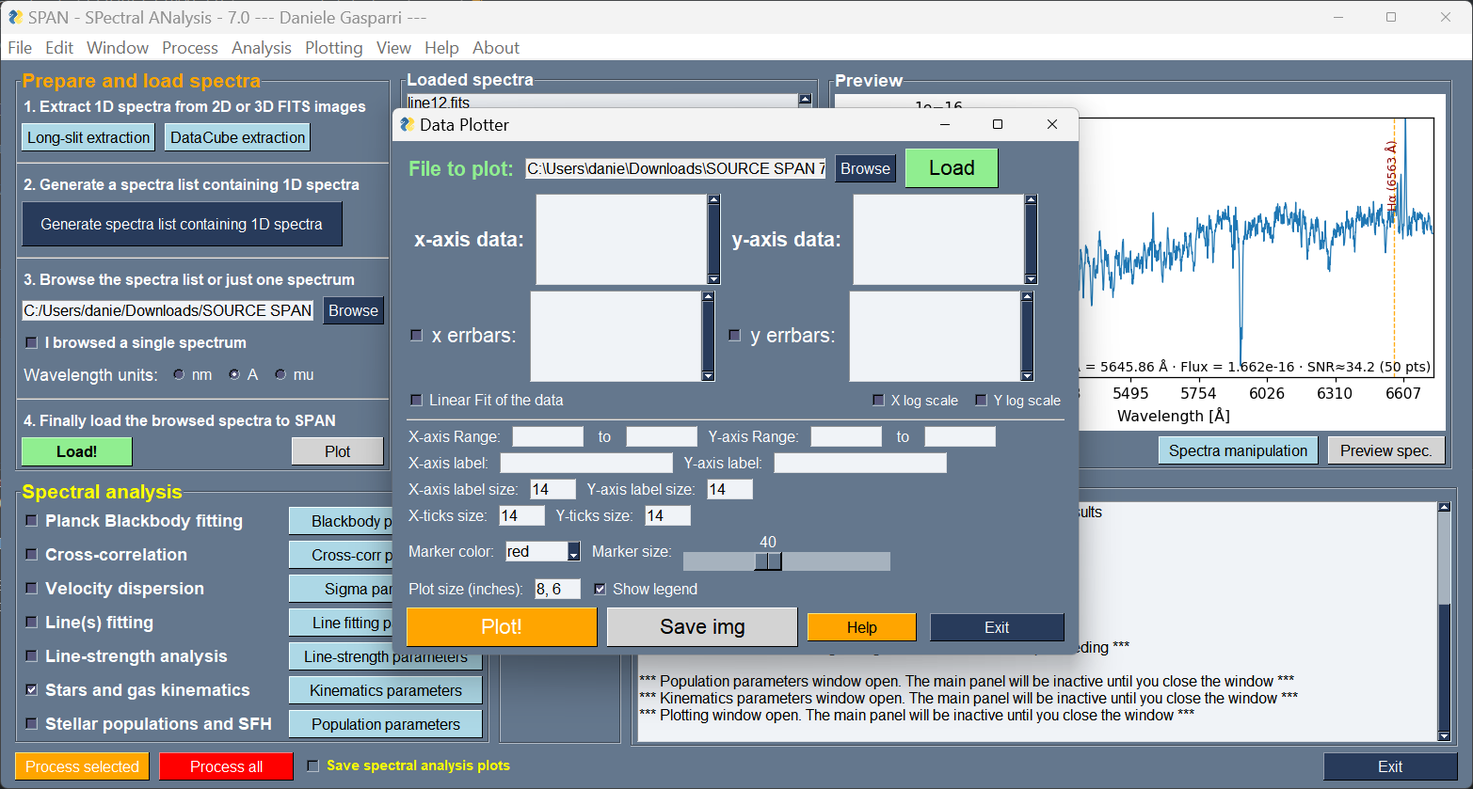
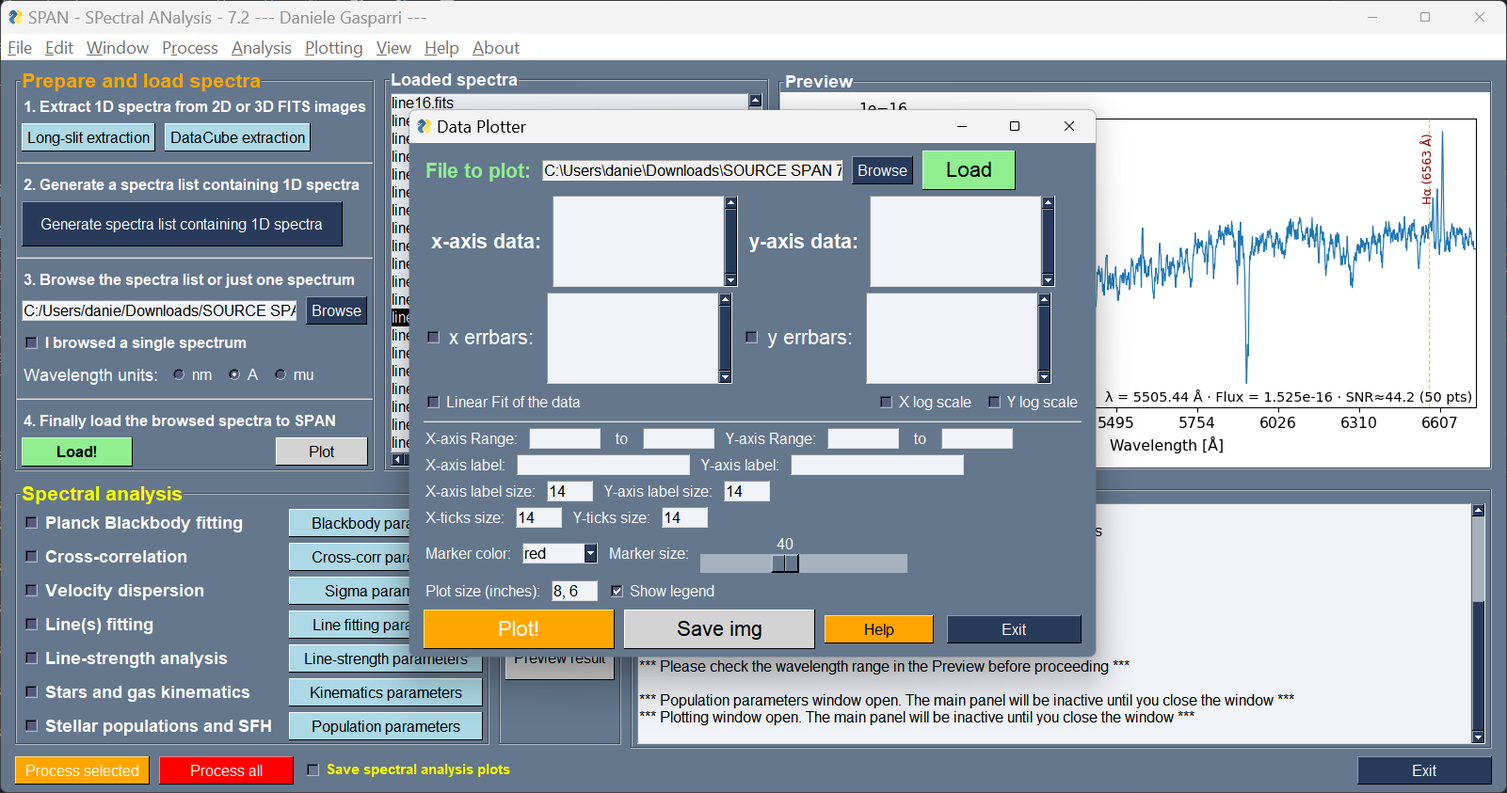
Add files via upload

diff --git a/docs/datacube_extraction.md b/docs/datacube_extraction.md
@@ -1,24 +1,22 @@
-SPAN: SPectral ANalysis software V7.1
-Daniele Gasparri, October 2025
+SPAN: SPectral ANalysis software V7.2
+Daniele Gasparri, November 2025
 
 # DataCube extraction #
 
 ![Datacube extraction](img/datacube_extraction.png)
 *Datacube extraction parameters*
 
-
-This module allows you to extract a series of n 1D spectra from a 3D FITS image (i.e., a datacube) following the GIST pipeline standard (Bittner et al., 2019, 2021).
-
-The required parameters are similar to those used in the GIST pipeline (and for any datacube extraction in general). The data product generated (i.e. spectra and bin table) are fully compatible with GIST.
-
+This sub-program allows you to extract a series of n 1D spectra from a 3D FITS image (i.e., a datacube) following the GIST pipeline standard (Bittner et al., 2019, 2021).
+The required parameters are similar to those used in the GIST pipeline (and for any datacube extraction in general). The data product generated (i.e. spectra and bin table) are fully compatible with both with SPAN and GIST. **IMPORTANT:** All the binning methods proposed in this task assume uncorrelated noise between the spaxels (no spaxel covariance). In real IFU data cubes, especially those reconstructed with drizzle algorithms (e.g., MUSE, JWST NIRSpec), the effective S/N per bin may be slightly overestimated (typically by 10–15%). Therefore, a practical approach to account for the covariance effect is to increase the target S/N accordingly (e.g., set the target S/N = 55 if an effective S/N ≈ 50 is desired).
 
 ## Overview
+
 The essential files and parameters required for this module to function correctly are highlighted in bold. The first step is to load a fully reduced, valid FITS datacube. Given the lack of a standardized convention for FITS keywords and data storage extensions, it is strongly recommended to use the "View datacube" button to verify that the datacube is correctly read.
 
 This module has been tested with MUSE, CALIFA, JWST NIRSpec IFU, and the new WEAVE LIFU data products. Other formats may only be partially supported. If at least the flux values are properly read, the "View datacube" button should display the image, though the wavelength slider in the Matplotlib window may show only a generic "Wavelength index" instead of actual wavelength values.
 
-
 ## Basic parameters for extraction
+
 Once the datacube is correctly loaded, configure the following basic parameters:
 
 - A run name (arbitrary).
@@ -26,29 +24,29 @@ Once the datacube is correctly loaded, configure the following basic parameters:
 - The wavelength range for extraction. **WARNING**: if de-redshift is needed (i.e. inserted redshift value different than 0), the wavelength range to extract is referred to the equivalent rest-frame range. Example: we have observations in the near-infrared from 9200 to 12500 A from a galaxy located at z = 1.17. If redshift value is set to zero (no de-redshift) we can insert this wavelength range (or a subrange) for extraction, but if we want to perform the de-redshift, we must insert the equivalent rest-frame wavelength range for extraction. In this case, it will be roughly 4200-5800 A. 
 - Selecting the extraction routine. In the middle panel, choose the routine for reading and extracting the data. Pre-loaded routines are available for MUSE, CALIFA, WEAVE LIFU, and JWST NIRSpec IFU datacubes. You can write your own extraction routines as .py files following the structure of the available ones and load using the option "using a user defined routine for extraction".
 - Configure the zero point for spatial coordinates. This is typically the center of the datacube spatial axes but can also be set to the spaxel coordinates of the galaxy's center. The "View datacube" option is useful for retrieving this information.
-- Wavelength range to consider for S/N estimation. If left empy, the S/N for the Voronoi rebinning will be estimated using the provided extraction wavelength range. Otherwise, enter the wavelength range where estimate the S/N. This field has effect only for Voronoi binning mode.
-
+- Wavelength range to consider for S/N estimation. If left empty, the S/N for the Voronoi rebinning will be estimated using the provided extraction wavelength range. Otherwise, enter the wavelength range where estimate the S/N. This field has effect only for Voronoi binning mode.
 
 ## Applying a spatial mask
+
 Locate the required "Select a FITS mask" field to browse and load a valid mask FITS file. This mask must have the same spatial dimensions as the datacube. If mask is not needed, simply leave this field empty.
 If no mask is available but you need it, generate one by clicking "Generate mask". A Matplotlib window will open, displaying the datacube with a slider to navigate across wavelength indices (note: these are indices, not actual wavelengths!). 
 To mask specific spaxels (e.g., to exclude contaminated regions and/or bad spaxels), Ctrl+left-click to mask and Ctrl+right-click to unmask. You can also mask/unmask larger areas by clicking and dragging with the Ctrl+left or right mouse button. On touchscreen devices (i.e. Android), masking is performed by tapping and dragging. Unmasking is not yet available. Ensure you remain within the plot boundaries while dragging, or the selection may not be applied.
 Once satisfied, close the Matplotlib window. The mask will be automatically saved and loaded in the relative field.
-If you open the "Generate mask" window but no masking is needed, simply close the window. An blank mask file will be created but it will not have effect on your data.
+If you open the "Generate mask" window but no masking is needed, simply close the window. An empty mask file will be created but it will not have effect on your data.
 Optionally, you can also mask spaxels with low S/N values by specifying a threshold.
 **Important**: bad and/or invalid spaxels are automatically masked out by SPAN. 
-
 
 ## Binning
 
 Binning spaxels together to extract spectra with higher signal is a very common practice when dealing with datacubes. SPAN offers three options for binning:
 
-1. **Voronoi binning:** The standard for datacube data. This option bins contiguous spaxels using the Voronoi method (Cappellari et al., 2003) to achieve the desired S/N; 
-2. **Elliptical radial binning:** Creates concentric annuli around the selected center with a minimum thickness of dR (in arcsec) and a minimum S/N threshold. The center, orientation and eccentricity of the ellipses can be set manually. In this case, the center is taken as the zero point for spatial coordinates given above ("Origin (in pixel) of the coordinates"), while the position angle (PA, assuming standard astronomical orientation of the cube, i.e. north up, east left) and the eccentricity (q = b/a) are inserted here. If automatic placing is selected ("Auto center"), SPAN will find the photometric center for you from the 2D collapsed image automatically generated and will center the ellipses around this point. If automatic geometry is selected ("Auto ellipses") SPAN will fit the ellipses following the photometric profiles of the 2D collapsed image and will find the best values of PA and q for you. If you have reliable data at hand, please use the manual method, at least for the estimation of the photometric center (the option "View datacube" may be very useful). The coordinates of the generated bins written in the _table.fits (XBIN, YBIN) will be the coordinates of the elliptical bins on the major axis corresponding to the elliptical radius R_flux. If the center of your coordinate system corresponds to the photometric center of the ellipses, these coordinates just give you the distance between the center and the corresponding bin point (signal weighted mean) on the major axis. If the origin of your coordinate system is different than the center of the ellipses, then you must account for the offset to treat XBIN and YBIN as distances. **TIP:** Enable the "Plot radial profile" option in the plot maps sub-program if you want to plot directly the radial profiles of your elliptical binned and analyzed spectra.
-3. **Manual binning:** Defines manual bins with mouse multiple selection. The manual bin selection lets you to have the full control on the spaxels to bin. By clicking to the "Manual binning" button, an iterative Matplotlib will appear showing your DataCube. You can select any region to be binned by Ctrl+left-click or dragging on the image. Deselecting can be performed by Ctrl+right-click or dragging. On touchscreen devices (i.e. Android), manual binning regions are selected by tapping and dragging. Deselecting is not yet available. Any region fully separated by the others by at least one spaxel, is considered by SPAN as a single bin. You can draw as many regions as you want. Once done, close the matplotlib window and the binning info will be saved.
-4. **Use pre-existing bin info:** This is useful, for example, if you have a datacube split between blue and red arm (e.g. WEAVE LIFU) and you want to sample exactly the same regions, either with the Voronoi or manual binning. You just need to select the folder where the bin info and masking files are stored from the previous run that you want to take as reference for the binning info. SPAN will find the required files in the folder, copy them to the folder where you are saving the new extracted spectra and rename them according to the folder name. Therefore, the extraction routine will use these bin and mask info instead of generating new ones.
+1. **Voronoi binning:** The standard for datacube data. This option bins contiguous spaxels using the Voronoi method (Cappellari et al., 2003) to achieve the desired S/N.
+2. **PoverBin binning:** Developed and presented by Cappellari 2025, is modern the evolution of the historical Voronoi binning. PowerBin produces spectral bins similar to Voronoi but it is up to 10 times faster.
+3. **Elliptical radial binning:** Creates concentric annuli around the selected center with a minimum thickness of dR (in arcsec) and a minimum S/N threshold. The center, orientation and eccentricity of the ellipses can be set manually. In this case, the center is taken as the zero point for spatial coordinates given above ("Origin (in pixel) of the coordinates"), while the position angle (PA, assuming standard astronomical orientation of the cube, i.e. north up, east left) and the eccentricity (q = b/a) are inserted here. If automatic placing is selected ("Auto center"), SPAN will find the photometric center for you from the 2D collapsed image automatically generated and will center the ellipses around this point. If automatic geometry is selected ("Auto ellipses") SPAN will fit the ellipses following the photometric profiles of the 2D collapsed image and will find the best values of PA and q for you. If you have reliable data at hand, please use the manual method, at least for the estimation of the photometric center (the option "View datacube" may be very useful). The coordinates of the generated bins written in the _table.fits (XBIN, YBIN) will be the coordinates of the elliptical bins on the major axis corresponding to the elliptical radius R_flux. If the center of your coordinate system corresponds to the photometric center of the ellipses, these coordinates just give you the distance between the center and the corresponding bin point (signal weighted mean) on the major axis. If the origin of your coordinate system is different than the center of the ellipses, then you must account for the offset to treat XBIN and YBIN as distances. **TIP:** Enable the "Plot radial profile" option in the plot maps sub-program if you want to plot directly the radial profiles of your elliptical binned and analyzed spectra.
+4. **Manual binning:** Defines manual bins with mouse multiple selection. The manual bin selection lets you to have the full control on the spaxels to bin. By clicking to the "Perform manual binning" button, an iterative Matplotlib will appear showing your DataCube. You can select any region to be binned by Ctrl+left-click or dragging on the image. Deselecting can be performed by Ctrl+right-click or dragging. On touchscreen devices (i.e. Android), manual binning regions are selected by tapping and dragging. Deselecting is not yet available. Any region fully separated by the others by at least one spaxel, is considered by SPAN as a single bin. You can draw as many regions as you want. Once done, close the matplotlib window and the binning info will be saved.
+5. **Use pre-existing bin info:** This is useful, for example, if you have a datacube split between blue and red arm (e.g. WEAVE LIFU) and you want to sample exactly the same regions, either with the Voronoi or manual binning. You just need to select the folder where the bin info and masking files are stored from the previous run that you want to take as reference for the binning info. SPAN will find the required files in the folder, copy them to the folder where you are saving the new extracted spectra and rename them according to the folder name. Therefore, the extraction routine will use these bin and mask info instead of generating new ones.
 
-You can always preview the results by clicking on the "Preview bins" button. If Voronoi binning is activated, you will see the Voronoi bins color coded by their S/N. If Manual binning is activated, you will see the regions you selected that will be binned. In this case you will see still the single spaxels inside these regions, color coded by their S/N.
+You can always preview the results by clicking on the "Preview bins" button. If Voronoi or Elliptical binning are activated, you will see the bins color coded by their S/N. If Manual binning is activated, you will see the regions you selected that will be binned. In this case you will see still the single spaxels inside these regions, color coded by their S/N.
 
 
 ## Starting the Extraction

diff --git a/docs/index.md b/docs/index.md
@@ -1,7 +1,7 @@
 # SPAN: Spectral Analysis Software
 
 📖 **Author:** Daniele Gasparri  
-📅 **Latest Release:** October 2025  
+📅 **Latest Release:** November 2025  
 
 ![PyPI Version](https://img.shields.io/pypi/v/span-gui)
 ![Python Version](https://img.shields.io/badge/python-3.10%2B-blue)
@@ -11,11 +11,14 @@
 **SPAN is a cross-platform Python GUI software for the extraction, manipulation, and advanced analysis of 1D astronomical spectra in the optical and near-infrared (NIR) ranges, optimized for galaxy studies.**
 
 
-## What’s New in SPAN 7.1
+## What’s New in SPAN 7.2
 
-- Expanded and improved the two component fit of the "Stellar and gas kinematics" task, which is now available both for the stellar and gas kinematics, with four presets: old-young components, metal rich-metal poor components, all templates, and two templates mode, with custom selection of age and metallicity following the work of Rubino et al. 2021. 
-- Added interactive analysis modes to the Preview. You can press the key F, E, S, D, I, L, P to enter the Fitting mode, Equivalent width mode, Signal-to-noise mode, Differential wavelength and velocity mode, Integrated line flux mode, Line-peak finding, snaPshot. Draw a region for the F, E, S, I modes or click on two points in the D mode to see the results in the HUD, in the terminal window and to automatically save them in logging files in the "SPAN_results" folder. Press again the respective key to exit the selected analysis mode and return back to idle (not applicable to L and P modes, they exit automatically). Press C to cancel all the overlays. Double click resets also zoom and panning.
-- Minor bug fixes
+- Simplified, cleaned and better arranged the GUI layout
+- Improved memory and event handling in the Preview frame. Now the Preview does not slow down the GUI anymore after many spectra are scrolled in the listbox  
+- Fixed a bug and improved the visualization of the L mode (line finding) in the Preview. Now the lines found are shifted together with the spectrum, if redshift mode is used, and their wavelengths are updated in real time.
+- Implemented the new PowerBin algorithm of Cappellari 2025 for DataCube extraction, improving the speed by a factor of 10 with respect to the classical Voronoi tessellation. 
+- Implemented the option to save the maps generated by the "Plot maps" sub-program also in FITS format. 
+- Minor bug corrections
 
 More from the version 7.X:
 
@@ -24,13 +27,14 @@ More from the version 7.X:
   - Know in real-time wavelength, flux, and S/N on every point of the spectrum.
   - Look at rest-frame reference spectral features (OII, HBeta, OIII, HAlpha, CaT) for immediate comparison with your spectrum.
   - Manual Redshift Estimation: shift the selected spectrum with right-click and drag to match the spectral features of your spectrum with the reference lines. Reset the shift with double right-click.
+  - Perform on the fly analysis. You can press the key F, E, S, D, I, L, P to enter the Fitting mode, Equivalent width mode, Signal-to-noise mode, Differential wavelength and velocity mode, Integrated line flux mode, Line-peak finding, snaPshot. Draw a region for the F, E, S, I modes or click on two points in the D mode to see the results in the HUD, in the terminal window and to automatically save them in logging files in the "SPAN_results" folder. Press again the respective key to exit the selected analysis mode and return back to idle (not applicable to L and P modes, they exit automatically). Press C to cancel all the overlays. Double click resets also zoom and panning.
 - Consistent Zooming (View menu): unified scaling for fonts, widgets, frames, and Preview to fine-tuning the view on screens with different resolution.
 - Extended the preliminary check of the loaded spectra with a quick global S/N evaluation and flagging in the listbox (LOW SNR if S/N <= 5), so you can immediately identify problematic spectra.
 - Interactive listbox that allows you to:
   - Select multiple spectra with mouse dragging or with crtl or shift + click
   - The single spectrum or the selected spectra can be reordered or deleted, via right click menu (delete works also with "Canc" button).
   - You can undo the latest operation (i.e. if you accidentally deleted the wrong spectra).
-  - If two spectra are selected in the listbox, you can also compare them, via right click --> compare.
+  - If two spectra are selected in the listbox, you can also compare them, via right click --> compare spectra.
   - You can save the modified spectra list in "Edit --> save current spectra list...".
   - Double click on a single spectrum to open an info window with some basic data: name, wavelength range, sampling, mean/median flux, standard deviation and global S/N.
 - Markov chain Monte Carlo (MCMC) simulations mode available for stellar parameters estimated with Lick/IDS line-strength analysis, in addition to the griddata linear interpolation and the supervised machine-learning GPR.

diff --git a/docs/known_issues.md b/docs/known_issues.md
@@ -1,12 +1,18 @@
-SPAN: SPectral ANalysis Software V7.1
-Daniele Gasparri, October 2025
+SPAN: SPectral ANalysis Software V7.2
+Daniele Gasparri, November 2025
 
 # Known issues
 
-SPAN’s features work on all supported operating systems. However, some GUI quirks can appear depending on how Tkinter, the display server (Wayland/X11), and OS scaling interact. The following are minor visual issues currently known that I was not able to solve.
+SPAN tasks work on all supported operating systems. However, some GUI quirks can appear depending on how Tkinter, the display server (Wayland/X11), and OS scaling interact. The following are minor visual issues currently known that I was not able to solve.
 
-- **Reset zoom on Windows:** After zooming in/out, if you open and close one or more sub-windows and then choose View → Reset Zoom, the main panel may not fully return to its initial geometry. **Workaround:** Set your preferred zoom level at the start of a session and keep it unchanged.
+- **Reset zoom on Windows:** After zooming in or out, the reset zoom (View → Reset Zoom) might not reset to the default zoom level all the sub-windows. 
 
-- **Screen scaling on Linux:** On some Linux distributions (especially Ubuntu on Wayland), when desktop scaling > 100% the main GUI elements can lose perfect alignment. This is cosmetic only; functionality is unaffected. The behavior stems from how Tk handles HiDPI/fractional scaling on certain Linux setups. **Workaround:** work always with the screen scaling set to 100% (this is a general advice, since some Linux distributions do not work well with fractional scaling). If the GUI panel appears small, use the zooming option of SPAN: View → zoom in. If you find a reliable fix for your environment (e.g., specific Tk/OS settings), please let me know: I’m happy to test and incorporate improvements.
+- **Screen scaling on Linux:** On some Linux distributions (especially Ubuntu on Wayland), when desktop scaling > 100% the main GUI elements can lose their vertical alignment. This is cosmetic only: functionality is unaffected. The behavior stems from how Tk handles HiDPI/fractional scaling on certain Linux setups. **Workaround:** if you want a perfect symmetry in the main GUI, work with the screen scaling set to 100% (this is a general advice, since some Linux distributions do not work well with fractional scaling). If the GUI panel appears small, use the zooming option of SPAN: View → zoom in. If you find a reliable fix for your environment (e.g., specific Tk/OS settings), please let me know: I’m happy to test and incorporate improvements.
 
-- **Output window on macOS:** The embedded terminal window of SPAN on macOS systems has been disables since it slowed-down all the tasks by a factor 4-5. 
+- **Zooming on macOS:** Zooming functions on macOS systems do not resize the buttons and their text. I could not test extensively SPAN on macOS systems to fix this issue. **Workaround:** if possible, avoid the zooming. 
+
+- **Output window on macOS:** The embedded terminal window of SPAN on macOS systems has been disabled since it slowed-down all the tasks by a factor 4-5. 
+
+- **Other GUI aspect differences on... guess where... yes, macOS**: Depending on where you installed Python, from the official Python.org distribution or via Homebrew, something magical happens: the GUI appearance changes. More precisely, with the Homebrew build of Python, buttons, text, and listboxes appear oversized, while the preview shrinks as if by design. This is caused by differences in the bundled Tk version. For the best (and most consistent) appearance, install Python from the official Python.org distribution. 
+
+- **Real time protection in Windows:** Well, this is a known and general behavior of Windows systems that slows down anything. SPAN is no exception. As an example, when real time Windows protection is active, the initial loading and checking of the spectra are 3 times slower. If you work with large datasets, consider temporarily deactivating the real time protection. By doing this, the performances increase and will be comparable to Linux systems. 

diff --git a/docs/changelog.md b/docs/changelog.md
@@ -1,8 +1,29 @@
-SPAN: SPectral ANalysis software V7.1
-Daniele Gasparri, October 2025
+SPAN: SPectral ANalysis software V7.2
+Daniele Gasparri, November 2025
 
 
 ## Changelog
+
+**Version 7.2 (20251102):**  
+
+- Improved memory and event handling in the Preview frame. Now the Preview does not slow down the GUI anymore after many spectra are scrolled in the listbox.  
+- Fixed a bug and improved the visualization of the L mode (line finding) in the Preview. Now the lines found are shifted together with the spectrum, if redshift mode is used, and their wavelengths are updated in real time.
+- Simplified the GUI layout by eliminating three buttons: 'Header', 'Sampling' and 'Help me'. The header option has been added to the right click menu that appears when clicking on one spectrum in the listbox. Sampling is included in the info window that opens up when double clicking on one spectrum in the listbox. The 'Help me' button in the 'Spectral analysis' frame is now included in the user manual and not needed anymore in the GUI. 
+- Improved the Preview frame. The 'Spectra manipulation' and the relative 'Preview spec.' buttons are now located in the 'Actions' frame near the Spectral analysis frame. The Preview now fills its frame.
+- Fixed the reset zoom option for Windows systems that sometimes prevented the main GUI to return to its initial size. 
+- Corrected a bug for the Windows app in the line(s) fitting task, where the variable 'sigma' was in conflict with the same variable of the 'Velocity dispersion' task.
+- Now the SPAN Windows app maintains its icon in the windows Task Bar when SPAN is open.
+- Changed the location of the SpectralTemplates folder to be downloaded by SPAN (Python version) from my website to my GitHub. This improved the download speed a lot.
+- Updated FreeSimpleGUI for macOS compatibility: I had to modify the FreeSimpleGUI module to ensure full compatibility with macOS systems running Python installations from Homebrew. Recent Homebrew builds of Python (≥ 3.13) use Tcl/Tk 9, in which the traditional trace() method for monitoring Tk variables has been deprecated and removed without backward-compatibility, and without warning (as far as I know). This caused SPAN to fail during GUI initialization on these systems. The new implementation introduces a compatibility wrapper that automatically switches between the legacy trace() and the modern trace_add() API, depending on the underlying Tcl/Tk version. This change should guarantee SPAN working on all platforms.
+- Some user experience improvements for Windows: buttons are highlighted with mouse over and now all the sub-windows stays on top with respect to the main GUI until they are closed. macOS and Linux systems have different window handling and these improvements are not yet available for them.
+- New binning method for the 'Datacube extraction' sub-program, using the new PowerBin algorithm of Cappellari 2025, which is much faster than the Voronoi binning.
+- Option to save also in FITS files the maps generated by the 'Plot maps' sub-program.
+- Some other minor bug corrections:
+  - Now if you load an empty spectra list SPAN will warn you instead of crashing
+  - Corrected a bug that prevented to write the kinematics uncertainties file when stars and gas kinematics with fixed kinematics and Monte Carlo simulations were activated. 
+  - A typo prevented to write to file the higher kinematic moments (H3, H4, if calculated) when stars and gas kinematics was selected.
+  - Corrected a program error that was arising for line-strength analysis with Lick/IDS option and the 'Estimate stellar parameters with SSP models' option deactivated
+
 
 **Version 7.1 (20251020):**  
 

diff --git a/docs/manual.md b/docs/manual.md
@@ -1,5 +1,5 @@
-SPAN: SPectral ANalysis software V7.1
-Daniele Gasparri, October 2025
+SPAN: SPectral ANalysis software V7.2
+Daniele Gasparri, November 2025
 
 # SPAN user manual
 
@@ -375,7 +375,7 @@ The two light-blue buttons in the upper left corner of SPAN (in the "Prepare and
      The S/N threshold that you must insert is just a very rough estimation of the real S/N. A good starting value to produce 1D spectra with bins with realistic S/N > 30 is 20. Adjust the SNR Threshold to your preference by looking at the real S/N of the bins.
      The pixel scale parameter is optional. If you set to zero it will not be considered. This option is useful if you have the spectrum of an extended source (e.g. a galaxy) and want to sample different regions.
 
-2. **DataCube extraction:** Following the GIST pipeline standard (Bittner at al., 2019, 2021), this sub-program allows you to extract 1D spectra from MUSE and CALIFA DataCubes using the Voronoi binning (Cappellari et al., 2003) or manual binning. It also allows to visualize the DataCube loaded and dynamically create a mask (if needed).
+2. **DataCube extraction:** Following the GIST pipeline standard (Bittner at al., 2019, 2021), this sub-program allows you to extract 1D spectra from DataCubes using the Voronoi binning (Cappellari et al., 2003), the new PowerBin binning (Cappellari 2025), circular/elliptical binning or manual binning. Pre-loaded extraction routines are available for MUSE, CALIFA, WEAVE LIFU, and JWST NIRSpec IFU datacubes. The sub-program also allows to visualize the DataCube loaded and dynamically create a mask (if needed).
 
 In the menu bar you can find more sub-programs that might help you in the difficult work of analyzing and processing astronomical spectra. They work independently from the main program, so you can also not load any spectra if you don't need to perform tasks on them. Here is how they works:
 
@@ -408,5 +408,5 @@ Please, report any bug or comment to daniele.gasparri@gmail.com
 Have fun!
 
 Daniele Gasparri  
-2025-10-20  
+2025-11-02  
 Greetings from the Atacama desert!

diff --git a/docs/plot_maps.md b/docs/plot_maps.md
@@ -1,5 +1,5 @@
-SPAN: SPectral ANalysis software V7.1
-Daniele Gasparri, October 2025
+SPAN: SPectral ANalysis software V7.2
+Daniele Gasparri, November 2025
 
 
 # Plot maps window #
@@ -30,6 +30,6 @@ You can alternatively plot the radial profiles of the selected quantity by activ
 
 
 **Saving the plots**  
-Once you are satisfied, you can save the current map in high resolution PNG image by clicking the "Save selected" button, or you can automatically save the maps for all the quantities available by clicking the "Save all" button.
+Once you are satisfied, you can save the current map in high resolution PNG image by clicking the "Save selected" button, or you can automatically save the maps for all the quantities available by clicking the "Save all" button. You can also save the current or all the maps in a single multi-extension FITS file, to be used and modified. 
 
 

diff --git a/docs/stellar_populations_and_SFH.md b/docs/stellar_populations_and_SFH.md
@@ -1,5 +1,5 @@
-SPAN: SPectral ANalysis software V7.1
-Daniele Gasparri, October 2025
+SPAN: SPectral ANalysis software V7.2
+Daniele Gasparri, November 2025
 
 # Stellar populations and SFH #
 

diff --git a/docs/spectra_manipulation.md b/docs/spectra_manipulation.md
@@ -1,5 +1,5 @@
-SPAN: SPectral ANalysis software V7.1
-Daniele Gasparri, October 2025
+SPAN: SPectral ANalysis software V7.2
+Daniele Gasparri, November 2025
 
 # Spectra manipulation panel #
 

diff --git a/docs/spectral_analysis_overview.md b/docs/spectral_analysis_overview.md
@@ -1,5 +1,5 @@
-SPAN: SPectral ANalysis software V7.1
-Daniele Gasparri, October 2025
+SPAN: SPectral ANalysis software V7.2
+Daniele Gasparri, November 2025
 
 # The Spectral analysis frame
 

diff --git a/docs/stars_and_gas_kinematics.md b/docs/stars_and_gas_kinematics.md
@@ -1,5 +1,5 @@
-SPAN: SPectral ANalysis software V7.1
-Daniele Gasparri, October 2025
+SPAN: SPectral ANalysis software V7.2
+Daniele Gasparri, November 2025
 
 # Stars and gas kinematics #
 

diff --git a/docs/linestrength.md b/docs/linestrength.md
@@ -1,5 +1,5 @@
-SPAN: SPectral ANalysis software V7.1
-Daniele Gasparri, October 2025
+SPAN: SPectral ANalysis software V7.2
+Daniele Gasparri, November 2025
 
 # Line-strength analysis #
 

diff --git a/docs/long-slit_extraction.md b/docs/long-slit_extraction.md
@@ -1,5 +1,5 @@
-SPAN: SPectral ANalysis Software V7.1
-Daniele Gasparri, October 2025
+SPAN: SPectral ANalysis Software V7.2
+Daniele Gasparri, November 2025
 
 # Long-slit extraction #
 
